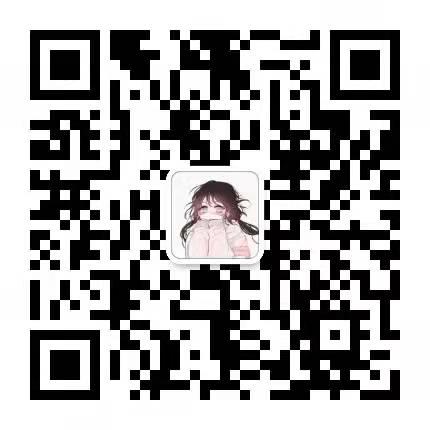
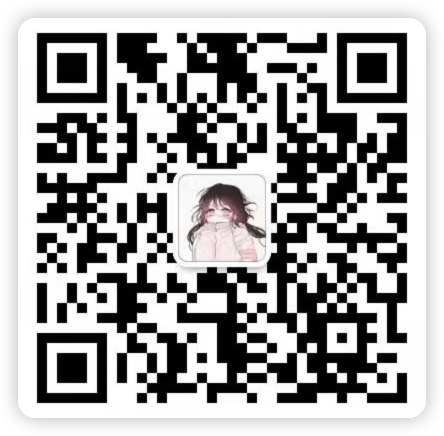
docs: update readme

Changed region(s): [[0.0302, 0.0302, 0.9674, 0.9674]]

diff --git a/README.md b/README.md
@@ -9,6 +9,7 @@
 * 火线 Zone 云安全社区 :fire: [地址](https://zone.huoxian.cn/?sort=newest)
 * 火线云安全知识库 [地址](https://cloudsec.huoxian.cn/)
 * T Wiki 云安全知识文库 [地址](https://wiki.teamssix.com/)
+* Cloud Security Wiki（英文）[地址](https://cloudsecwiki.com/index.html)
 * Hacking The Cloud（英文） [地址](https://hackingthe.cloud/)
 * Lightspin Blog（英文）[地址](https://blog.lightspin.io/)
 * Sysdig 云安全报告（英文）[地址](https://sysdig.com/resources/reports/)
@@ -102,8 +103,8 @@
 * AWS 综合利用工具 pacu [地址](https://github.com/RhinoSecurityLabs/pacu) ![GitHub stars](https://img.shields.io/github/stars/RhinoSecurityLabs/pacu)
 * 阿里云 AccessKey 利用工具 aliyun-accesskey-Tools [地址](https://github.com/mrknow001/aliyun-accesskey-Tools) ![GitHub stars](https://img.shields.io/github/stars/mrknow001/aliyun-accesskey-Tools) `由「半人间丶」师傅补充，感谢支持`
 * 阿里云 ECS、策略组辅助小工具 alicloud-tools [地址](https://github.com/iiiusky/alicloud-tools) ![GitHub stars](https://img.shields.io/github/stars/iiiusky/alicloud-tools) `由「半人间丶」师傅补充，感谢支持`
-* 阿里云 AccessKey 泄漏利用工具 AliyunAccessKeyTools [地址](https://github.com/NS-Sp4ce/AliyunAccessKeyTools) ![GitHub stars](https://img.shields.io/github/stars/NS-Sp4ce/AliyunAccessKeyTools) `由「半人间丶」师傅补充，感谢支持`
 * AWS 云平台 AccessKey 泄漏利用工具 awsKeyTools [地址](https://github.com/Aabyss-Team/awsKeyTools)  ![GitHub stars](https://img.shields.io/github/stars/Aabyss-Team/awsKeyTools) `由「1derian」和「ShangRui-hash」师傅联合补充，感谢支持`
+* 阿里云 AccessKey 泄漏利用工具 AliyunAccessKeyTools [地址](https://github.com/NS-Sp4ce/AliyunAccessKeyTools) ![GitHub stars](https://img.shields.io/github/stars/NS-Sp4ce/AliyunAccessKeyTools) `由「半人间丶」师傅补充，感谢支持`
 * 腾讯云 AccessKey 利用工具 Tencent_Yun_tools [地址](https://github.com/freeFV/Tencent_Yun_tools) ![GitHub stars](https://img.shields.io/github/stars/freeFV/Tencent_Yun_tools)
 
 ## 2 云原生
@@ -115,7 +116,7 @@
 * 容器镜像漏洞静态扫描工具 Clair [地址](https://github.com/quay/clair) ![GitHub stars](https://img.shields.io/github/stars/quay/clair) `由「zxynull」师傅补充，感谢支持`
 * 检查生产环境中部署容器的最佳实践 Docker_Bench_Security [地址](https://github.com/docker/docker-bench-security) ![GitHub stars](https://img.shields.io/github/stars/docker/docker-bench-security) `由「zxynull」师傅补充，感谢支持`
 * 原生支持容器的系统可见性工具 sysdig [地址](https://github.com/draios/sysdig) ![GitHub stars](https://img.shields.io/github/stars/draios/sysdig) `由「zxynull」师傅补充，感谢支持`
-* Kubernetes 异常活动检测工具 Falco [地址](https://github.com/falcosecurity/falco) ![GitHub stars](https://img.shields.io/github/stars/falcosecurity/falco) `由「zxynull」师傅补充，感谢支持`
+* k8s 异常活动检测工具 Falco [地址](https://github.com/falcosecurity/falco) ![GitHub stars](https://img.shields.io/github/stars/falcosecurity/falco) `由「zxynull」师傅补充，感谢支持`
 * CIS 基准检测工具 kube bench [地址](https://github.com/aquasecurity/kube-bench)  ![GitHub stars](https://img.shields.io/github/stars/aquasecurity/kube-bench) `由「zhengjim」师傅补充，感谢支持`
 * k8s 集群安全漏洞发现工具 kube hunter [地址](https://github.com/aquasecurity/kube-hunter)  ![GitHub stars](https://img.shields.io/github/stars/aquasecurity/kube-hunter) `由「zhengjim」师傅补充，感谢支持`
 * Docker 镜像扫描工具 Anchore [地址](https://github.com/anchore/syft/) ![GitHub stars](https://img.shields.io/github/stars/anchore/syft) `由「zxynull」师傅补充，感谢支持`
@@ -123,6 +124,7 @@
 * k8s 集群风险权限扫描工具 KubiScan [地址](https://github.com/cyberark/KubiScan) ![GitHub stars](https://img.shields.io/github/stars/cyberark/KubiScan) `由「UzJu」师傅补充，感谢支持`
 * k8s 安全审计工具 kubestriker [地址](https://github.com/vchinnipilli/kubestriker) ![GitHub stars](https://img.shields.io/github/stars/vchinnipilli/kubestriker) `由「zhengjim」师傅补充，感谢支持`
 * 基于 kubectl 的红队 k8s 安全评估工具 red kube [地址](https://github.com/lightspin-tech/red-kube) ![GitHub stars](https://img.shields.io/github/stars/lightspin-tech/red-kube) `由「zhengjim」师傅补充，感谢支持`
+* k8s 安全风险检测工具 StackRox [地址](https://github.com/stackrox/stackrox) ![GitHub stars](https://img.shields.io/github/stars/stackrox/stackrox) [工具介绍](https://www.stackrox.io/blog/open-source-stackrox-is-now-available/) `由「m4d3bug」师傅补充，感谢支持`
 * 开源云原生安全防护平台 neuvector [地址](https://github.com/neuvector/neuvector) ![GitHub stars](https://img.shields.io/github/stars/neuvector/neuvector) `由「Idle Life」师傅补充，感谢支持`
 * 容器逃逸检测工具 container-escape-check [地址](https://github.com/teamssix/container-escape-check) ![GitHub stars](https://img.shields.io/github/stars/teamssix/container-escape-check)
 * 一个支持在线分析容器镜像的网站 contains [地址](https://contains.dev/) `由「zxynull」师傅补充，感谢支持`
@@ -148,15 +150,38 @@
 
 感谢你们的支持 ~
 
-<a href="https://wiki.teamssix.com" target="_blank"><img width="600" src="./img/1651147358.png"></a>
-
+<table>
+    <tr>
+        <td align="center"><img alt="TeamsSix"
+                    src="./img/1651741861.jpg" style="width: 100px; border-radius:50%; "/><br />TeamsSix</td>
+        <td align="center"><img alt="1derian"
+                    src="./img/1650108029.jpeg"  style="width: 100px; border-radius:50%; " /><br />1derian</td>
+        <td align="center"><img alt="ShangRui-hash"
+                    src="./img/1650108092.jpeg"  style="width: 100px; border-radius:50%; " /><br />ShangRui-hash</td>
+        <td align="center"><img alt="半人间丶"
+                    src="./img/1650108207.jpeg"  style="width: 100px; border-radius:50%; " /><br />半人间丶</td>
+        <td align="center"><img alt="UzJu"
+                    src="./img/1650253985.jpeg"  style="width: 100px; border-radius:50%; " /><br />UzJu</a>
+        </td>
+        <td align="center"><img alt="Idle Life"
+                    src="./img/1650865577.jpeg"  style="width: 100px; border-radius:50%; " /><br />Idle Life</td>
+    </tr>
+    <tr>
+        <td align="center"><img alt="zhengjim"
+                    src="./img/1650942808.jpeg"  style="width: 100px; border-radius:50%; " /><br />zhengjim</a></td>
+        <td align="center"><img alt="zxynull"
+                    src="./img/1651146804.jpeg"  style="width: 100px; border-radius:50%; " /><br />zxynull</a></td>
+        <td align="center"><img alt="m4d3bug"
+                    src="./img/1651740464.jpeg"  style="width: 100px; border-radius:50%; " /><br />m4d3bug</a></td>
+    </tr>
+</table>
 [想要一起补充？](https://wiki.teamssix.com/About/Contribute.html)
 
 # 云安全交流群 :cloud:
 
 添加 WgpSecBot 微信可以加入`云安全交流群`，搜索微信号`WgpSecBot`或扫描以下二维码可以添加它，添加后发送`云安全`就可以进群了。
 
-<div align=center><img width="250" src="./img/1649988782.png"></div>
+<div align=center><img width="300" src="./img/1649988782.png"></div>
 
 <div align=center><img width="600" src="./img/1650010640.png" div align=center/></div>
 
